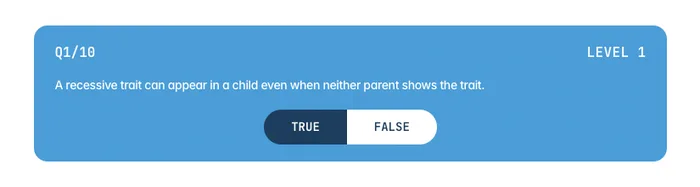
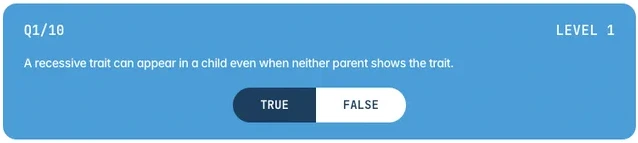
fix: crop education-saas thumbnail tight to its own white margin
The source image had a real, baked-in white margin around the blue
quiz card, not just CSS padding. At the box's own aspect ratio (much
narrower than the strip's 3.7:1), object-contain rendered the image
large enough that this baked-in margin read as a dominant white
rectangle swallowing the card, not a subtle border -- confirmed live
and by direct pixel sampling (white values persisting well past where
the card's own rounded content starts).

Cropped to a threshold-based tight bbox around the actual card content
(638x143, was 700x187), verified by rendering the file directly before
redeploying. A first pass using a plain diff-from-white bbox undercut
this (still visibly dominated by white) because it picked up faint
anti-aliasing at the true edges; a threshold on how far a pixel departs
from pure white gives the real, tight boundary.

Claude-Session: https://claude.ai/code/session_01W6dCJqai5GLcY545y1ZHjQ

diff --git a/src/data/workReel.ts b/src/data/workReel.ts
@@ -57,8 +57,8 @@ export const workReel: WorkReelItem[] = [
     caption: "Live in production for real schools",
     image: {
       src: "/work/education-saas/quiz-engine-thumb.webp",
-      width: 700,
-      height: 187,
+      width: 638,
+      height: 143,
       alt: "A strip of the quiz engine interface from the curriculum-aligned learning platform.",
     },
   },
